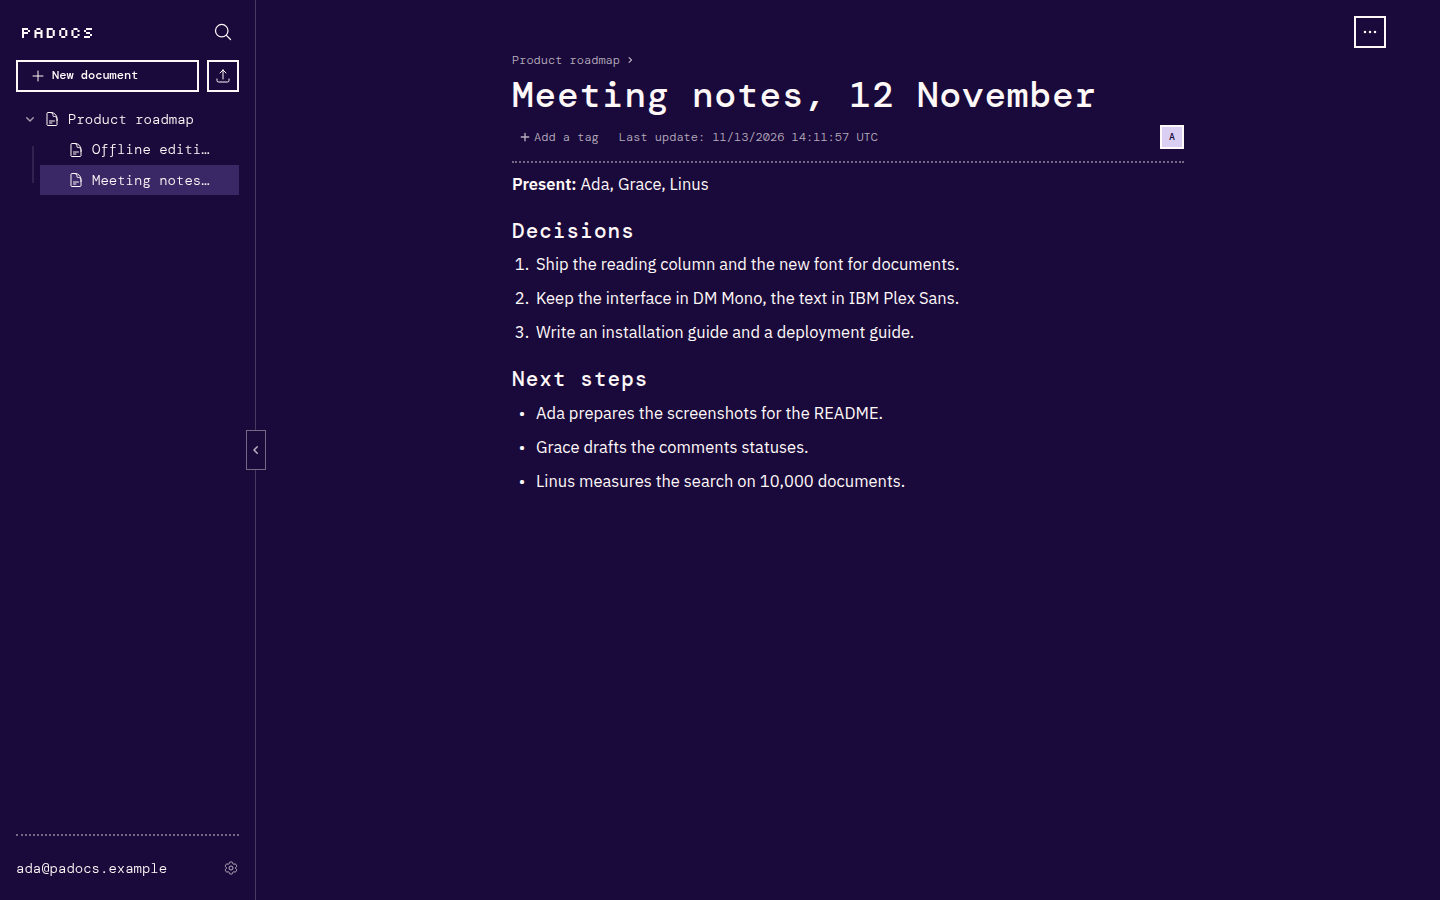
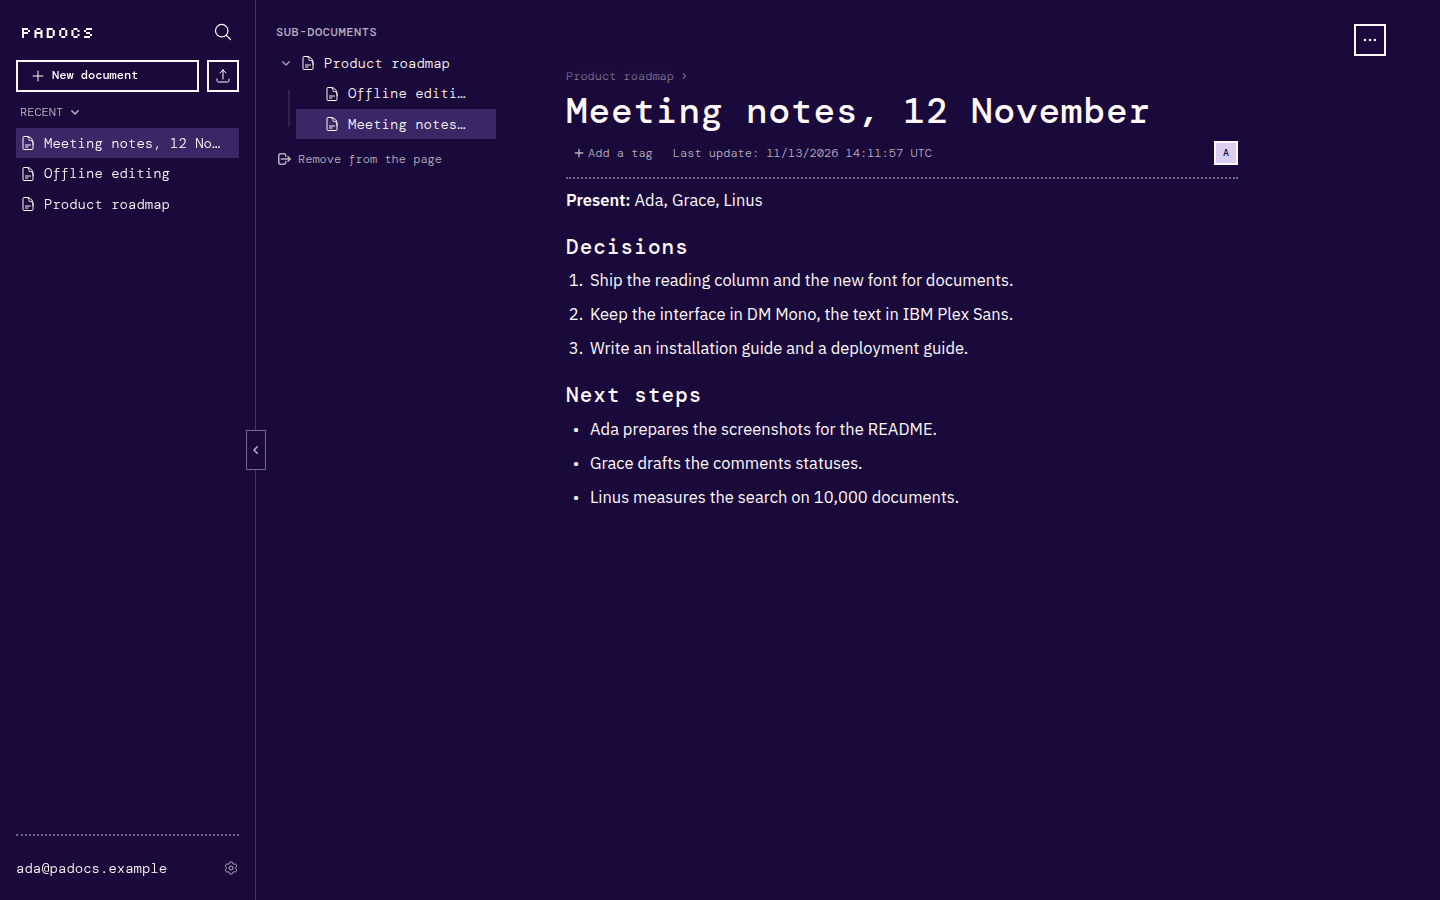
README : captures refaites avec la nouvelle disposition
Les quatre captures montrent les documents récents à gauche et les
sous-documents montrés sur la page à côté ; la recherche, dans sa fenêtre
élargie. Le README décrit les sous-documents ouverts depuis le document ou
montrés à côté, et la colonne de gauche.

Changed region(s): [[0.0, 0.0311, 0.875, 0.56], [0.9375, 0.0, 0.9688, 0.0622]]

diff --git a/README.md b/README.md
@@ -5,7 +5,7 @@ time, organize documents in a tree, find them with full-text search, and share
 them with your team or with a public link. It all runs as a single Elixir
 application next to a SQLite file.
 
-![A document in Padocs: the sidebar with sub-documents, tags, a checklist and a table](docs/images/document.png)
+![A document in Padocs: the recent documents, its sub-documents shown beside them, tags, a checklist and a table](docs/images/document.png)
 
 ## Why Padocs
 
@@ -34,8 +34,10 @@ everything else in one [Phoenix](https://www.phoenixframework.org) application:
   who have the document open shown next to its title.
 - **Offline**: edits made without a connection are kept in the browser and
   merged when it comes back.
-- **Sub-documents**: a tree in the sidebar, reordered by drag and drop. Access
-  is inherited from the parents.
+- **Sub-documents**: a tree opened from the document, or shown beside it,
+  reordered by drag and drop. Access is inherited from the parents.
+- **A sidebar** listing the recent documents, your own, those shared with you
+  or the trash.
 - **Search**: full-text search with snippets, filters (recent, mine, shared
   with me, trash) and tags.
 - **Sharing**: viewer and editor roles per document, and a public read-only
